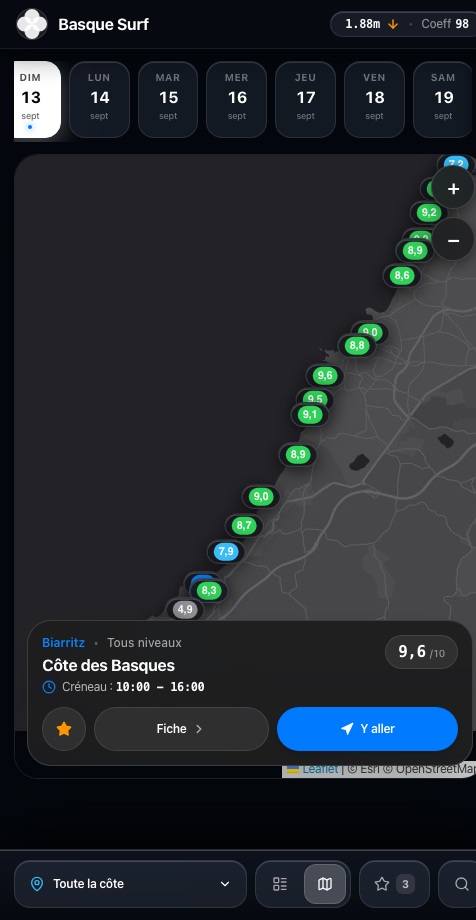
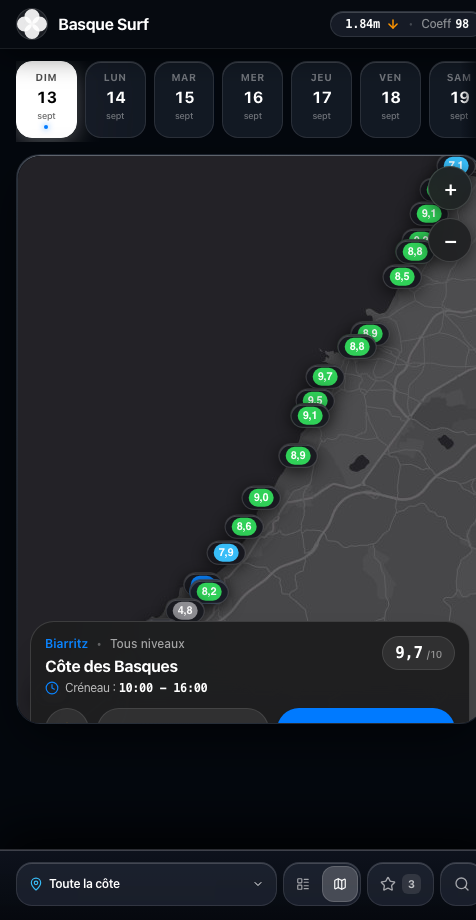
fix(layout): align date selector and dock search button strictly within container margins

diff --git a/src/components/SearchBar.tsx b/src/components/SearchBar.tsx
@@ -96,13 +96,13 @@ export const SearchBar: React.FC<SearchBarProps> = ({
         </div>
       )}
 
-      {/* Dock Unifié sur 1 SEULE LIGNE (hauteur tactile ~48px Apple HIG) */}
-      <div className="flex items-center justify-between gap-2 sm:gap-3 h-12 w-full">
+      {/* Dock Unifié sur 1 SEULE LIGNE (hauteur tactile 46px, parfaitement centré dans les marges) */}
+      <div className="flex items-center gap-1.5 sm:gap-2.5 h-12 w-full max-w-full overflow-hidden">
 
         {/* Vue Mobile Recherche Dépliée */}
         {isSearchExpandedMobile ? (
-          <div className="flex items-center gap-2.5 w-full sm:hidden animate-fade-in">
-            <div className="relative flex-1">
+          <div className="flex items-center gap-2 w-full sm:hidden animate-fade-in">
+            <div className="relative flex-1 min-w-0">
               <Search className="absolute left-3.5 top-1/2 -translate-y-1/2 w-4 h-4 text-white/40 pointer-events-none stroke-[2]" />
               <input
                 ref={searchInputRef}
@@ -110,7 +110,7 @@ export const SearchBar: React.FC<SearchBarProps> = ({
                 value={searchTerm}
                 onChange={(e) => onSearchChange(e.target.value)}
                 placeholder="Rechercher une plage..."
-                className="w-full h-12 pl-10 pr-10 rounded-2xl bg-white/[0.08] border border-white/[0.14] text-white placeholder-white/40 text-xs focus:outline-none focus:border-sky-400"
+                className="w-full h-11 pl-10 pr-10 rounded-2xl bg-white/[0.08] border border-white/[0.14] text-white placeholder-white/40 text-xs focus:outline-none focus:border-sky-400"
               />
               {searchTerm && (
                 <button
@@ -123,7 +123,7 @@ export const SearchBar: React.FC<SearchBarProps> = ({
             </div>
             <button
               onClick={() => setIsSearchExpandedMobile(false)}
-              className="h-12 px-3 text-xs font-semibold text-sky-400 flex items-center justify-center shrink-0 active:opacity-70"
+              className="h-11 px-3 text-xs font-semibold text-sky-400 flex items-center justify-center shrink-0 active:opacity-70"
             >
               Annuler
             </button>
@@ -134,45 +134,45 @@ export const SearchBar: React.FC<SearchBarProps> = ({
             <button
               type="button"
               onClick={() => setIsMenuOpen(!isMenuOpen)}
-              className={`h-12 px-3.5 sm:px-4 rounded-2xl border flex items-center justify-between sm:justify-start gap-2 text-xs font-semibold flex-1 sm:flex-initial transition active:scale-95 ${
+              className={`h-11 px-3 sm:px-4 rounded-2xl border flex items-center justify-between gap-1.5 text-xs font-semibold flex-1 min-w-0 transition active:scale-95 ${
                 selectedTown !== 'ALL'
                   ? 'bg-white text-black border-white shadow-sm'
                   : 'liquid-glass-pill text-white hover:bg-white/[0.12]'
               }`}
               title="Choisir une commune"
             >
-              <div className="flex items-center gap-2 min-w-0">
-                <MapPin className={`w-4 h-4 shrink-0 stroke-[2] ${selectedTown !== 'ALL' ? 'text-black' : 'text-[#38bdf8]'}`} />
+              <div className="flex items-center gap-1.5 min-w-0 truncate">
+                <MapPin className={`w-3.5 h-3.5 shrink-0 stroke-[2] ${selectedTown !== 'ALL' ? 'text-black' : 'text-[#38bdf8]'}`} />
                 <span className="truncate">{currentLabel}</span>
               </div>
-              <ChevronDown className={`w-3.5 h-3.5 shrink-0 stroke-[2] transition-transform ${isMenuOpen ? 'rotate-180' : ''}`} />
+              <ChevronDown className={`w-3 h-3 shrink-0 stroke-[2] transition-transform ${isMenuOpen ? 'rotate-180' : ''}`} />
             </button>
 
             {/* Segmented Control Liste / Carte */}
-            <div className="flex items-center liquid-glass-pill rounded-2xl p-1 h-12 shrink-0 gap-1">
+            <div className="flex items-center liquid-glass-pill rounded-2xl p-0.5 h-11 shrink-0 gap-0.5">
               <button
                 onClick={() => onViewModeChange('list')}
-                className={`h-10 px-3 sm:px-3.5 rounded-xl text-xs font-semibold flex items-center gap-1.5 transition-all active:scale-95 ${
+                className={`h-9 px-2.5 sm:px-3 rounded-xl text-xs font-semibold flex items-center gap-1 transition-all active:scale-95 ${
                   viewMode === 'list'
                     ? 'bg-white/20 text-white shadow-sm font-bold border border-white/15'
                     : 'text-white/60 hover:text-white'
                 }`}
                 title="Vue liste"
               >
-                <LayoutList className="w-4 h-4 stroke-[2]" />
+                <LayoutList className="w-3.5 h-3.5 stroke-[2]" />
                 <span className="hidden xs:inline">Liste</span>
               </button>
 
               <button
                 onClick={() => onViewModeChange('map')}
-                className={`h-10 px-3 sm:px-3.5 rounded-xl text-xs font-semibold flex items-center gap-1.5 transition-all active:scale-95 ${
+                className={`h-9 px-2.5 sm:px-3 rounded-xl text-xs font-semibold flex items-center gap-1 transition-all active:scale-95 ${
                   viewMode === 'map'
                     ? 'bg-white/20 text-white shadow-sm font-bold border border-white/15'
                     : 'text-white/60 hover:text-white'
                 }`}
                 title="Vue carte"
               >
-                <Map className="w-4 h-4 stroke-[2]" />
+                <Map className="w-3.5 h-3.5 stroke-[2]" />
                 <span className="hidden xs:inline">Carte</span>
               </button>
             </div>
@@ -180,7 +180,7 @@ export const SearchBar: React.FC<SearchBarProps> = ({
             {/* Bouton Favoris */}
             <button
               onClick={onToggleFavoritesOnly}
-              className={`h-12 px-3.5 sm:px-4 min-w-[48px] rounded-2xl text-xs font-medium flex items-center justify-center gap-1.5 shrink-0 transition active:scale-95 ${
+              className={`h-11 px-3 sm:px-3.5 min-w-[44px] rounded-2xl text-xs font-medium flex items-center justify-center gap-1.5 shrink-0 transition active:scale-95 ${
                 showFavoritesOnly
                   ? 'bg-[#FF9500]/25 text-[#FF9F0A] border border-[#FF9500]/50 shadow-[0_0_10px_rgba(255,149,0,0.3)]'
                   : 'liquid-glass-pill text-white/60 hover:text-white'
@@ -197,10 +197,10 @@ export const SearchBar: React.FC<SearchBarProps> = ({
               )}
             </button>
 
-            {/* Bouton Loupe Dépliable sur Mobile (Carré 48x48px) */}
+            {/* Bouton Loupe Dépliable sur Mobile (Carré 44x44px Apple HIG) */}
             <button
               onClick={() => setIsSearchExpandedMobile(true)}
-              className={`h-12 w-12 rounded-2xl flex sm:hidden items-center justify-center transition active:scale-95 shrink-0 ${
+              className={`h-11 w-11 rounded-2xl flex sm:hidden items-center justify-center transition active:scale-95 shrink-0 ${
                 searchTerm 
                   ? 'bg-sky-500/20 text-sky-400 border border-sky-400/40' 
                   : 'liquid-glass-pill text-white/60 hover:text-white'

diff --git a/src/App.tsx b/src/App.tsx
@@ -167,7 +167,7 @@ export const App: React.FC = () => {
         <Header tideData={activeHeaderTide} />
 
         {/* Conteneur Principal : Mobile Single-Column / Desktop Split-View Apple Plans */}
-        <main className="flex-1 max-w-7xl w-full min-w-0 mx-auto px-3.5 sm:px-6 pt-3 pb-24 sm:pb-24 overflow-x-hidden">
+        <main className="flex-1 max-w-7xl w-full min-w-0 mx-auto px-4 sm:px-6 pt-3 pb-24 sm:pb-24 overflow-x-hidden">
           
           <div className="flex flex-col lg:flex-row gap-5 items-start w-full min-w-0">
             
@@ -183,7 +183,7 @@ export const App: React.FC = () => {
               {/* Sur mobile : affichage carte si viewMode === 'map' */}
               <div className="block lg:hidden">
                 {viewMode === 'map' ? (
-                  <section className="space-y-2 animate-fade-in">
+                  <div className="h-[62vh] rounded-3xl overflow-hidden liquid-glass-card border border-white/[0.12] mb-2 shadow-xl animate-fade-in">
                     <SpotMap
                       spots={filteredSpots}
                       selectedSpot={selectedSpot}
@@ -191,7 +191,7 @@ export const App: React.FC = () => {
                       onOpenDetails={(sp) => setSelectedSpot(sp)}
                       onToggleFavorite={handleToggleFavorite}
                     />
-                  </section>
+                  </div>
                 ) : null}
               </div>
 
@@ -258,7 +258,7 @@ export const App: React.FC = () => {
 
         {/* Barre d'action inférieure flottante style iOS Liquid Glass Dock (1 Ligne Compacte) */}
         <nav className="fixed bottom-0 inset-x-0 z-40 liquid-glass-nav pb-[max(0.75rem,env(safe-area-inset-bottom))] pt-2.5">
-          <div className="max-w-5xl mx-auto px-3.5 sm:px-6">
+          <div className="max-w-5xl mx-auto px-4 sm:px-6">
             <SearchBar
               searchTerm={searchTerm}
               onSearchChange={setSearchTerm}

diff --git a/src/components/DateSelector.tsx b/src/components/DateSelector.tsx
@@ -35,7 +35,7 @@ export const DateSelector: React.FC<DateSelectorProps> = ({
 
   return (
     <div className="w-full min-w-0 max-w-full overflow-hidden relative">
-      <div className="flex items-center gap-2 overflow-x-auto pb-1 hide-scrollbar -mx-3.5 px-3.5 sm:mx-0 sm:px-0 snap-x snap-proximity overscroll-x-contain touch-pan-x w-full min-w-0">
+      <div className="flex items-center gap-2 overflow-x-auto pb-1 hide-scrollbar snap-x snap-proximity overscroll-x-contain touch-pan-x w-full min-w-0">
         {days.map((item) => {
           const isSelected = selectedOffset === item.offset;
 
